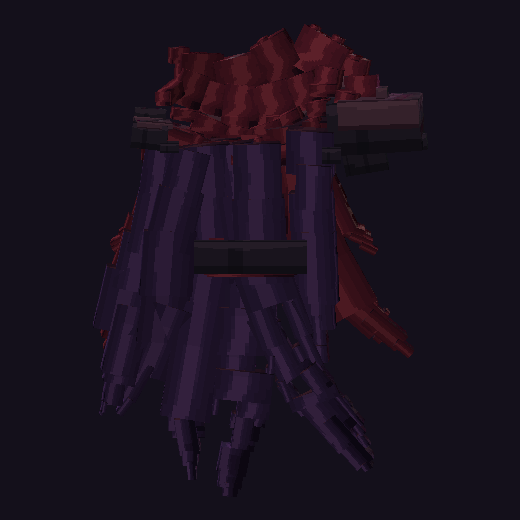
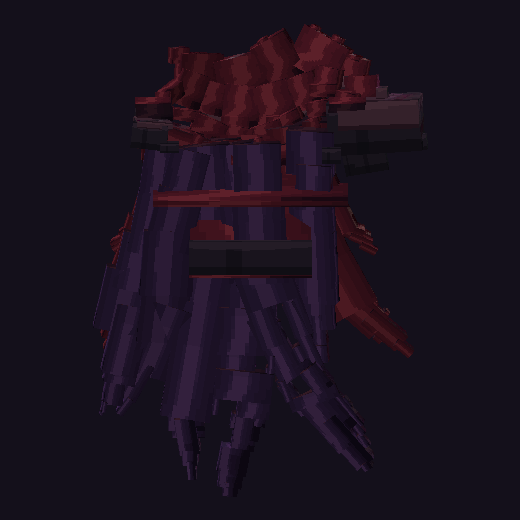
Validar ambas uniones y preparar el JAR v1.67.7 [probar-halo] [publicar]

diff --git a/docs/index.html b/docs/index.html
@@ -20,8 +20,8 @@ body{background:#141019;color:#f4e7ee;max-width:1000px;margin:48px auto;padding:
     <a href="capa_v1660_zancada.png">Zancada: antes y después</a>
     <a href="capa_v1650_cuello.png">Cuello de frente y de perfil</a>
     <a href="capa_v1640_ajuste.png">Montura interior v1.64.0</a>
-    <a href="capa_v1676_anclaje_forge.png">Cenital de la versión anterior</a>
-    <a href="capa_v1676_hotbar.gif">Hotbar v1.67.6</a>
+    <a href="capa_v1677_hombros_forge.png">Unión de hombros en Forge</a>
+    <a href="capa_v1677_hotbar.gif">Pulso en la hotbar de Forge</a>
     <a href="capa_v1170_icon_compare.png">Comparación de iconos</a>
     <a href="capa_v1650_registro.png">Registro de silueta</a>
     <a href="capa_v1673_nocturna.png">Halo nocturno y dobladillo</a>

diff --git a/tools/verify_forge_mount.py b/tools/verify_forge_mount.py
@@ -64,25 +64,25 @@ def shoulder_rails(bare, worn, *, turned=False):
     floor = (abs(wr-wg) <= 2) & (wg-wb >= 3) & (wg-wb <= 16) & (wg >= 35)
     rails = []
     for direction in (-1,1):
-        result = []
-        for x in range(round(center-.42*width),round(center+.42*width)):
-            if not .32 <= direction*(x-center)/width <= .41 or not shirt[:,x].any():
-                continue
-            end = np.flatnonzero(shirt[:,x])[-1] + 1
-            # Preserve the row adjacent to the sleeve. Its placement is
-            # noisier when the sleeve bob and yaw straddle a physical pixel.
-            result.append(painted[end:end+max(3,round(.054*width)),x])
-        assert len(result) > .05*width
-        measured = np.stack(result)
+        columns = [(x,direction*(x-center)/width)
+                   for x in range(round(center-.43*width),round(center+.43*width))]
+        edge = {x: np.flatnonzero(shirt[:,x])[-1]+1 for x,_ in columns if shirt[:,x].any()}
+        outer = [(x,edge[x]) for x,f in columns if .32 <= f <= .41 and x in edge]
+        assert len(outer) > .05*width, ('no se ve la manga exterior',turned,direction,len(outer),width)
+        measured = np.stack([painted[y:y+max(3,round(.054*width)),x] for x,y in outer])
+        # At 43° the head hides some of the shirt pixels along one seam.
+        # Extrapolate the exposed sleeve edge under the head instead of
+        # dropping columns (which would miss the hole being tested).
+        rear = round(float(np.median([y for _,y in outer])))
         inner = []
-        for x in range(round(center-.36*width),round(center+.36*width)):
-            if not .22 <= direction*(x-center)/width <= .35 or not shirt[:,x].any():
-                continue
-            end = np.flatnonzero(shirt[:,x])[-1] + 1
-            inner.append(floor[end:end+max(6,round(.106*width)),x])
-        assert len(inner) > .075*width
+        for x,f in columns:
+            if .22 <= f <= .35:
+                y = edge.get(x,rear)
+                if abs(y-rear) > .027*width:
+                    y = rear
+                inner.append(floor[y:y+max(6,round(.106*width)),x])
         holes = np.stack(inner)
-        opening = (np.lib.stride_tricks.sliding_window_view(holes,(3,3)).all(axis=(-1,-2))).any()
+        opening = np.lib.stride_tricks.sliding_window_view(holes,(3,3)).all(axis=(-1,-2)).any()
         rails.append((float(measured.mean()),float(measured[:,:2].mean()),float(holes.mean()),bool(opening)))
     return rails
 
@@ -137,8 +137,10 @@ def gallery(root, kind):
     # cannot be downloaded. Full-resolution shots stay in the artifact.
     if kind != 'hotbar':
         prefix = 'cenital-giro' if kind == 'giro' else 'cenital'
-        for name in ('pecho','curios'):
-            path = root/f'{prefix}-{name}.png'
+        names = ('cenital-sin-manto','cenital-giro-sin-manto') if kind == 'bare' else (
+            f'{prefix}-pecho', f'{prefix}-curios')
+        for name in names:
+            path = root/f'{name}.png'
             if not path.exists(): continue
             with Image.open(path) as im:
                 x,y = im.width//2, im.height//2
@@ -167,7 +169,7 @@ def gallery(root, kind):
 def main():
     cli = argparse.ArgumentParser(description=__doc__)
     cli.add_argument('shots',type=Path)
-    cli.add_argument('--gallery',choices=['cenital','giro','hotbar'])
+    cli.add_argument('--gallery',choices=['cenital','giro','bare','hotbar'])
     args = cli.parse_args()
     if args.gallery:
         gallery(args.shots,args.gallery)
@@ -195,4 +197,8 @@ def main():
 
 
 if __name__ == '__main__':
-    main()
+    try:
+        main()
+    except (AssertionError,ValueError,FileNotFoundError) as exc:
+        print(f'::error title=Anclaje y ranura en Forge::{exc}',flush=True)
+        raise

diff --git a/README.md b/README.md
@@ -14,12 +14,17 @@ Se equipa en el pecho o en `back` con Curios opcional.
 - **Unión lateral:** el hueco de las capturas del jugador estaba al costado,
   entre la manga y la hombrera; la medición anterior sólo cubría el centro.
   El asiento entra más en el torso y dos remates cosidos llegan a los hombros.
-  Los remates se recogen con el giro de cabeza, al agacharse o con élitros;
-  el asiento sigue fijo. No cambia la caída libre del paño.
+  El forro interior cierra el espacio entre los remates y el asiento. Se
+  recoge al mover los brazos, al agacharse o con élitros, sin mover el
+  asiento ni cambiar la caída libre del paño.
 - **Icono:** [nuevo dibujo de referencia](referencias/REFERENCIA_ICONO_v1677.png),
   sin damero, con más silueta visible en 16 px y una luz que recorre las grietas
   rosa. Dieciséis cuadros con el mismo alfa, sin estrella añadida ni render
   propio para la ranura. [Comparación a tres escalas](docs/capa_v1170_icon_compare.png).
+
+- **Capturas en Forge:** [ambos hombros, recto y con giro de 43°](docs/capa_v1677_hombros_forge.png)
+  · [icono en la hotbar](docs/capa_v1677_hotbar.gif). Se probó el mismo
+  ajuste en pecho y en Curios `back`.
 
 ### v1.67.6 — unión visible al torso e icono animado
 
@@ -31,7 +36,7 @@ Se equipa en el pecho o en `back` con Curios opcional.
 - **Icono:** usamos [tu dibujo](referencias/REFERENCIA_ICONO_v1676.png),
   sin el damero y sin redibujar el contorno. La estrella pulsa y el destello
   recorre las grietas en la hotbar. Son 16 cuadros del atlas vanilla; no
-  hace falta otro mod ni un paquete de recursos. [Antes y ahora, en reposo](docs/capa_v1170_icon_compare.png).
+  hace falta otro mod ni un paquete de recursos. [Primer cuadro histórico](referencias/ICONO_V1676_BACKUP.png).
 - **Prueba anterior:** en F5 cenital, la banda central de unión
   quedó cubierta tanto en el pecho como en Curios `back`. El icono se
   animó en la hotbar vanilla sin cambiar de silueta.

diff --git a/docs/GUIA_MODELADO_ANIMACION.md b/docs/GUIA_MODELADO_ANIMACION.md
@@ -174,14 +174,16 @@ animación y la documentación de GeckoLib._
   `CapeWingFitTest --samples`. La prueba F5 lee `cape_top` del modelo equipado
   y toma una captura con las alas ya plegadas.
 - **Unión lateral (v1.67.7):** asiento profundo más dos remates sobre las
-  mangas, cosidos a las hombreras. `CapeFit.shoulderReach` sólo recoge esos
-  remates para despejar cabeza y élitros; no toca el paño libre. El visor
-  aplica la misma escala, y el .bbmodel contiene la posición extendida de
-  edición. `verify_cape_mount.py` comprueba el solape, cabeza y mangas
-  Steve/Alex. Forge captura la unión a 89° recto y a 86° con 43° de giro
-  de cabeza, con controles sin manto y el mismo encuadre en pecho y `back`.
-  `verify_forge_mount.py` mide la banda central y cada remate por separado,
-  y verifica el nuevo ciclo de la hotbar vanilla.
+  mangas, cosidos a las hombreras. El forro inferior cubre la unión entre
+  cada remate y el torso. `CapeFit.shoulderReach` recoge los remates para
+  despejar cabeza y alas; `CapeFit.yokeShape` estrecha el forro antes de
+  bajarlo al fuelle cuando un brazo va hacia atrás. El visor aplica ambos
+  ajustes, sin cambiar el paño libre; el .bbmodel está extendido para
+  edición. `verify_cape_mount.py` mide el solape, la holgura y el
+  alojamiento del forro con élitros. Forge compara una vista a 89° recta
+  y otra a 86° con 43° de giro de cabeza, con y sin manto en pecho y
+  `back`. `verify_forge_mount.py` busca suelo en el interior de ambas
+  uniones y mide el icono animado contra la misma ranura vacía.
 - **Lectura del diagnóstico:** la lámina de brasas compara los puntos de
   salida con los clips del JAR, no con todos los huesos animados en vivo.
   El servidor no ve el paño de cada cliente. El ajuste de élitros reduce el
